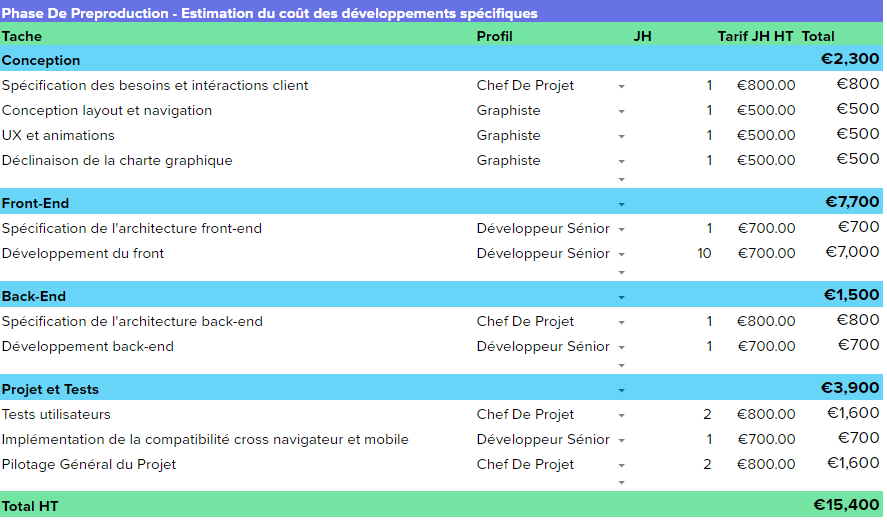
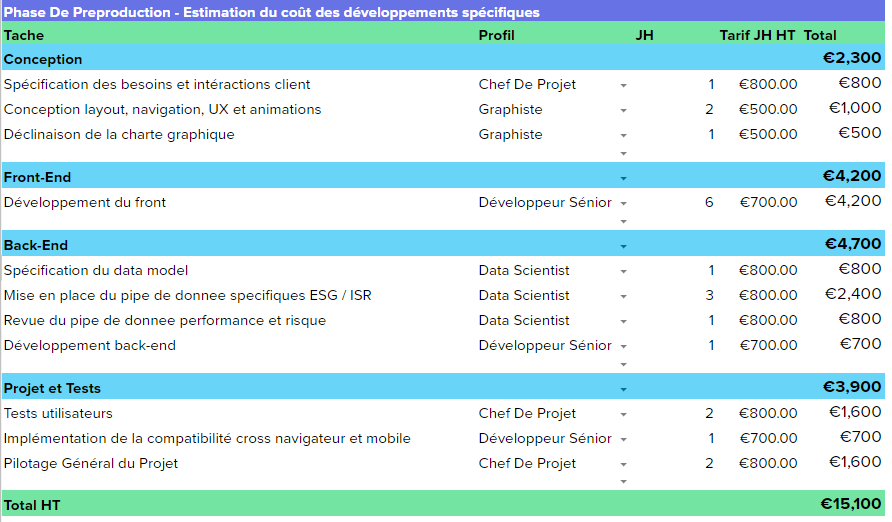
esg

diff --git a/extra/docs/arkea-esg.md b/extra/docs/arkea-esg.md
@@ -9,13 +9,13 @@
 ---
 
 # Introduction
-Le reporting des métriques extra-financière représente un enjeu qui ira croissant, notamment avec la future entrée en vigueur de la loi sur la transition energétique. Aujourd'hui, Arkéa IS dispose d'une infrastructure de reporting sur les sujets ESG/ISR, des sources de données afférentes, ainsi que de son propre moteur de calcul. 
+**Le reporting des métriques extra-financière représente un enjeu qui ira croissant**, notamment avec la future entrée en vigueur de la loi sur la transition energétique. Aujourd'hui, Arkéa IS dispose d'une infrastructure de reporting sur les sujets ESG/ISR, des sources de données afférentes, ainsi que de son propre moteur de calcul. 
 
-Nous avons compris que vous souhaitez développer plus-avant la capacité à communiquer efficacement et largement sur les aspects extra-financiers pour donner au client final une meilleure vision de ces métriques. En particulier, vous souhaitez permettre au client d'aller d'une vision globale à une vision granulaire au sein d'un portefeuille.
+Nous avons compris que vous souhaitez développer plus-avant la capacité à communiquer efficacement et largement sur les aspects extra-financiers pour **donner au client final une meilleure vision de ces métriques**. En particulier, vous souhaitez **lui permettre d'aller d'une vision globale à une vision granulaire au sein d'un portefeuille.**
 
 100M est une solution de reporting et de datavisualisation analytique. 100M livre des applications sur-mesure et clef-en-main pour communiquer efficacement sous un format engageant. L'équipe de 100M combine un savoir-faire technique et une connaissance profonde des métiers de l'investissement.
 
-Ensemble nous vous proposons dans un premier temps de digitaliser le rapport de gestion mensuel des fonds ESG/ISR, en dédiant une attention toute particulière à la composante extra-financière.  
+Ensemble **nous vous proposons dans un premier temps de digitaliser le rapport de gestion mensuel des fonds ESG/ISR, en dédiant une attention toute particulière à la composante extra-financière.**  
 Dans un deuxième temps, nous pourrons travailler sur les rapports ESG/ISR semestriels. 
 
 ---
@@ -74,7 +74,7 @@ Les databases sont hébergées sur un serveur dédié et optimisé (4CPU, 30GB o
 
 # Le Projet
 
-Nous vous proposons de digitaliser les rapports de gestion sur les fonds ISR et ESG, en tirant parti du modèle Schelcher Prince et en l'augmentant d'une section dédiée aux aspects extra-financiers.
+Nous vous proposons de digitaliser les rapports de gestion sur les fonds ISR et ESG, **en tirant parti du modèle Schelcher Prince** et **en l'augmentant d'une section dédiée aux aspects extra-financiers.**
 
 Nous allons procéder en mode *agile* et nous vous proposons d'articuler le projet en 2 étapes: une phase de **pré-production** où nous allons adapter le template et ajouter les éléments manquants et une phase de mise en **production** où nous connecterons l'application aux systèmes Arkéa IS.
 
@@ -114,7 +114,7 @@ L'écran ESG / ISR reprendra les informations présentées par le reporting exis
 - de fournir les données brutes requises pour la conception du rapport.
 
 ## Planning de livraison
-**L'application sera livrée dans un délai de 8 semaines, à compter de la date d'accord d'Arkéa.**
+**L'application sera livrée dans un délai de 6 semaines, à compter de la date d'accord d'Arkéa.**
 
 ---
 
@@ -133,15 +133,9 @@ Les prix de la licence sont ceux fixés par notre accord cadre disponible [ici](
 ##  Les développements spécifiques
 100M met à disposition son équipe de développeurs front-end, ses quant's et ses chefs de projet pour conseiller Arkéa et pour effectuer les développements spécifiques nécessaires.
 
-Les développements spécifiques comprennent, à titre d'exemple:
-* la customisation de la solution,
-* l'intégration aux systèmes Client,
-* le travail spécifique sur les données.
-Les développements se feront en cycles *Agiles* en partenariat avec Arkéa.  
-
 Les développements sont facturés sur une base Jour Homme aux tarifs prévus dans notre accord cadre.
 
-Le coût des **développements spécifiques** pour adapter la solution aux besoins d'Arkéa et l'intégrer aux systèmes de la société sont estimés à **15,400 Euros.**
+Le coût des **développements spécifiques** pour adapter la solution aux besoins des fonds ISG / ESR d'Arkéa est estimé à **15,100 Euros.**
 
 ### Chiffrage détaillé de la phase Pre-Production
 ![](/extra/arkea-esg.png)
